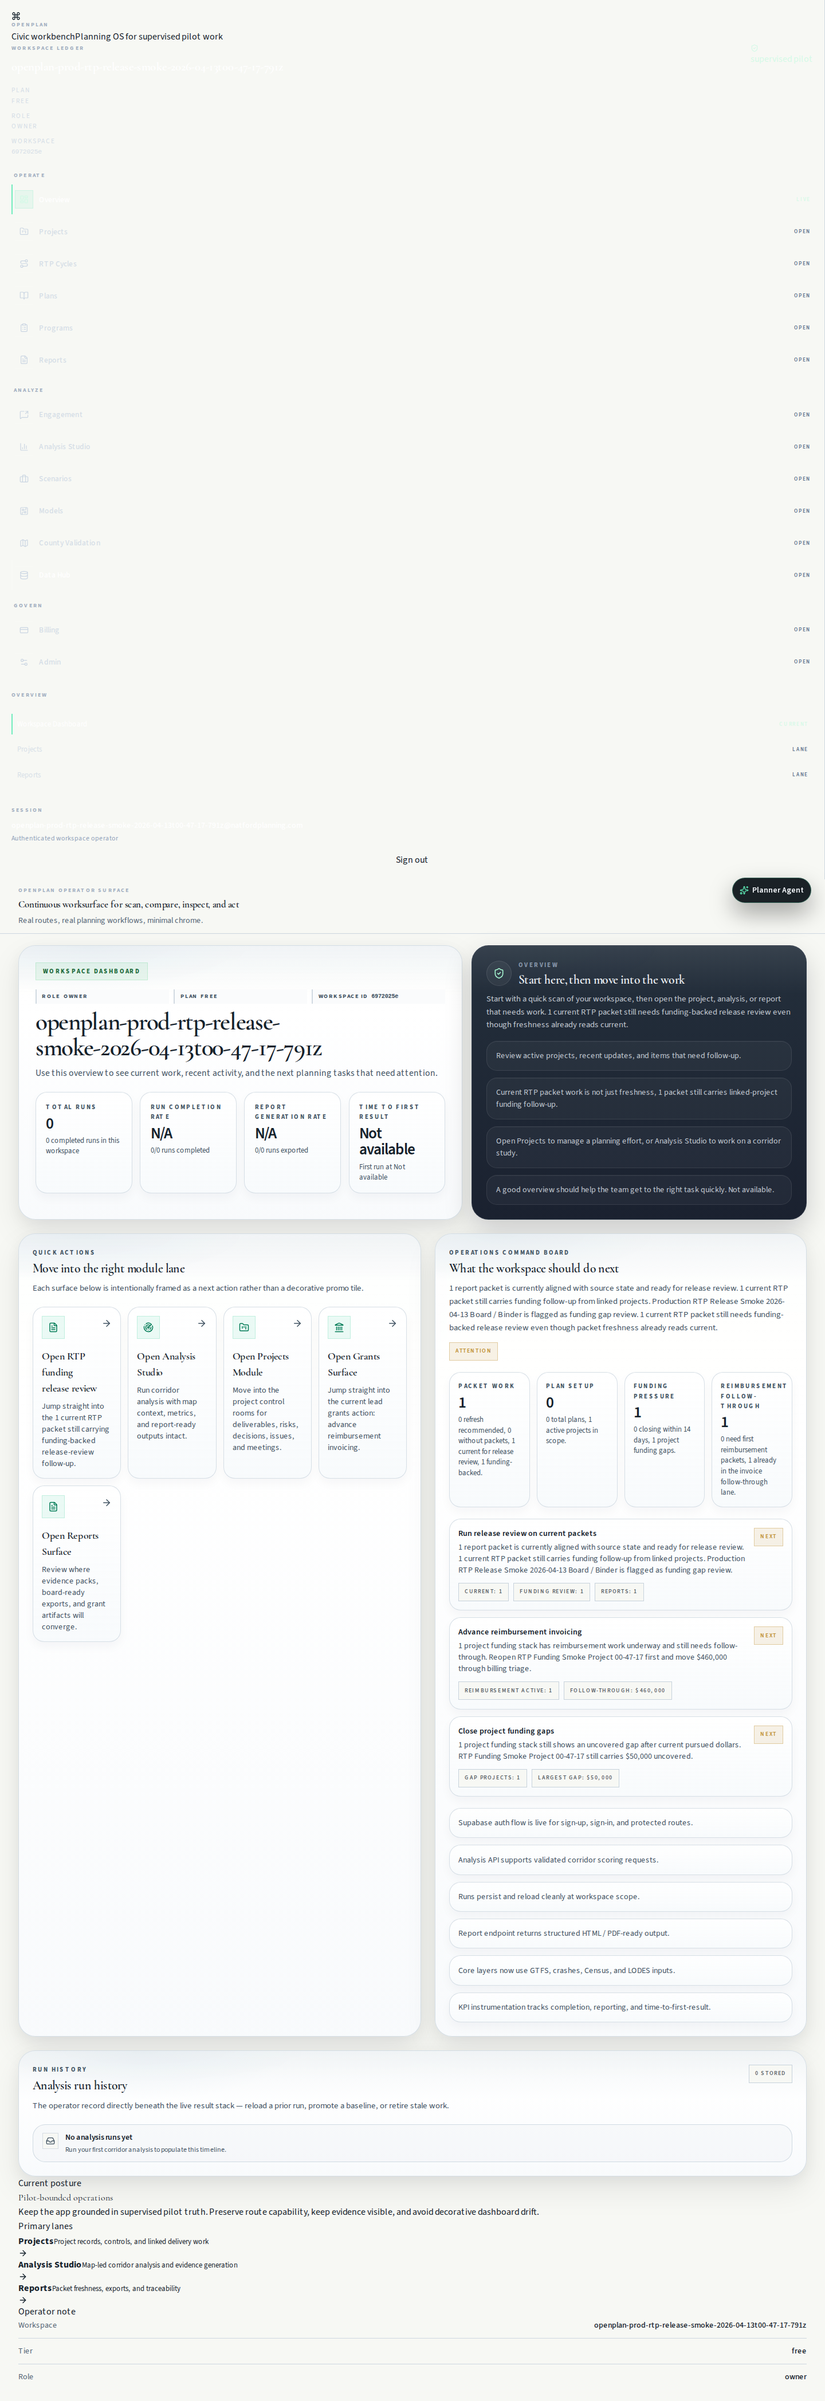
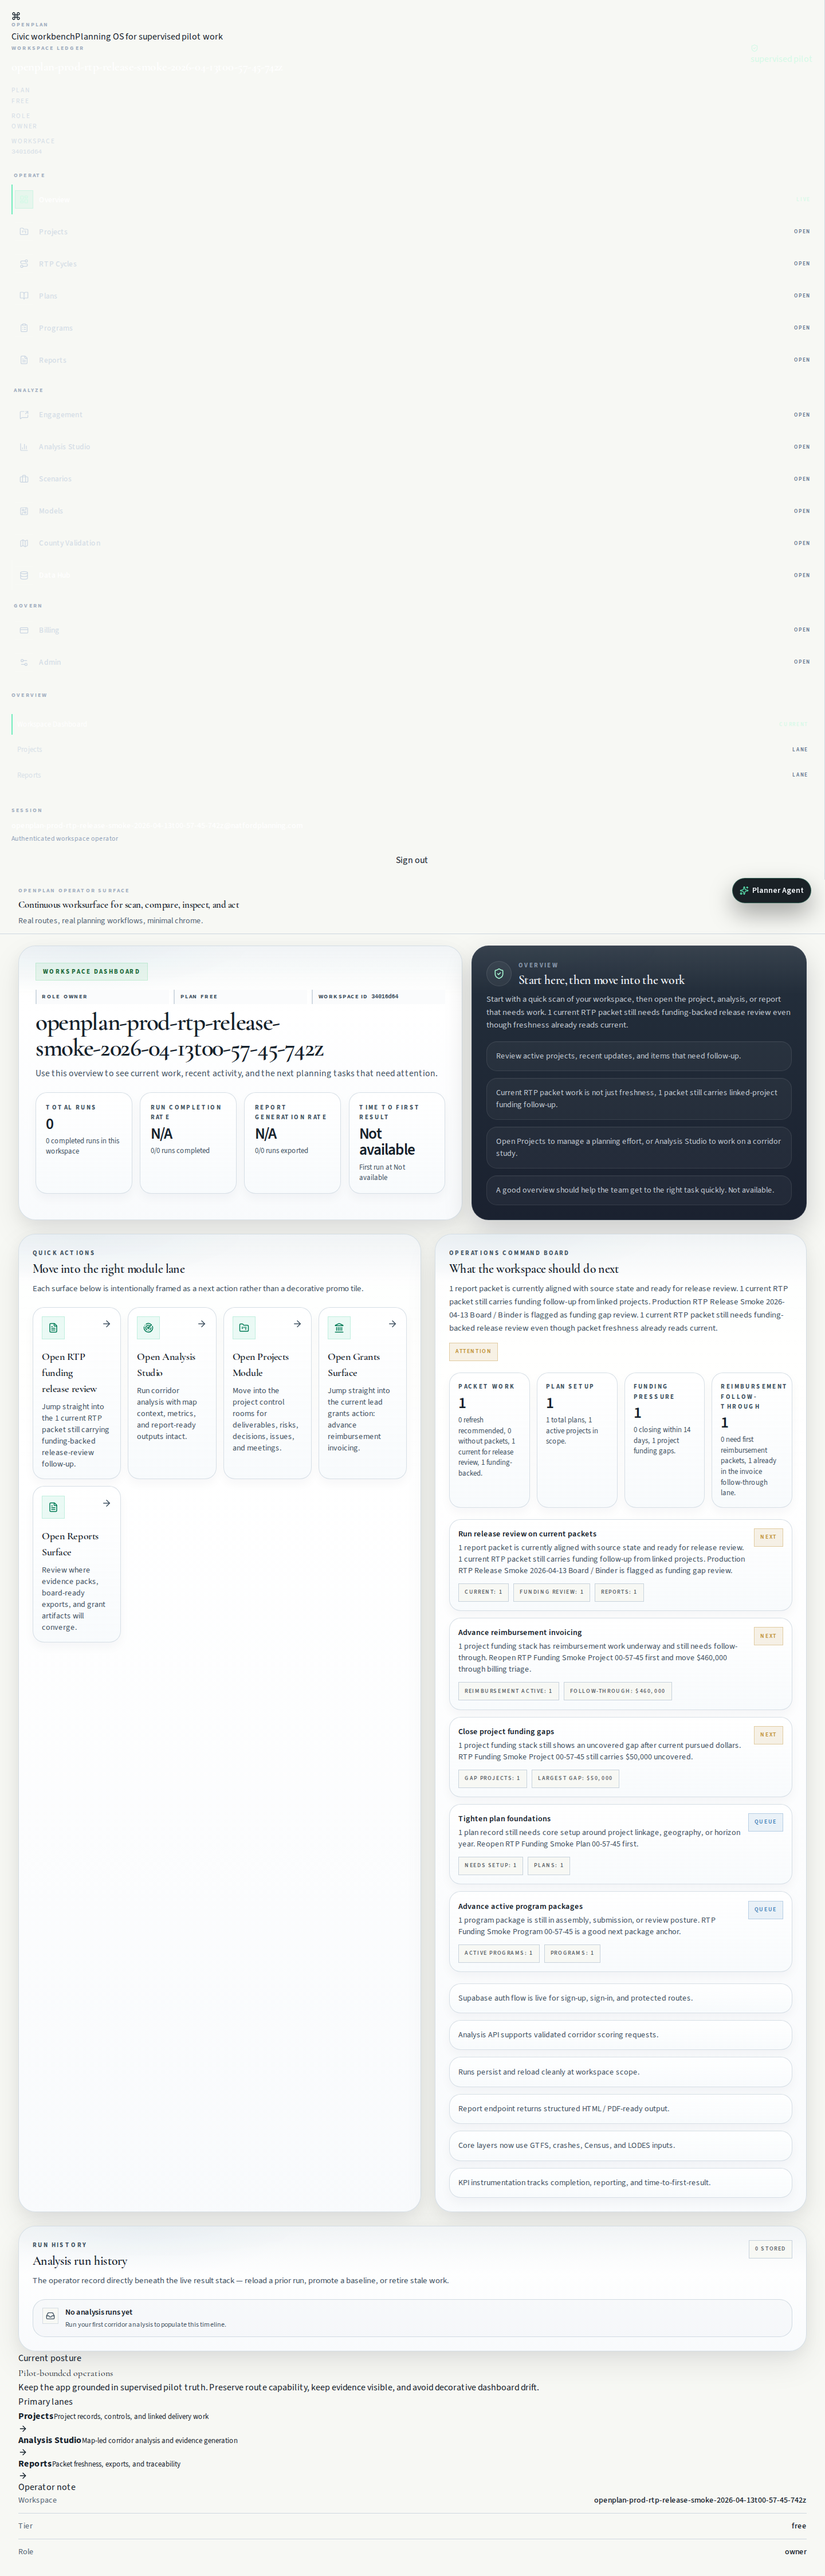
feat: surface RTP funding review on plan and program detail

diff --git a/qa-harness/openplan-prod-rtp-release-review-smoke.js b/qa-harness/openplan-prod-rtp-release-review-smoke.js
@@ -35,6 +35,8 @@ async function main() {
   const workspaceName = `OpenPlan Prod RTP Release Smoke ${stamp.slice(11, 19)}`;
   const cycleTitle = `Production RTP Release Smoke ${stamp.slice(0, 10)}`;
   const projectName = `RTP Funding Smoke Project ${stamp.slice(11, 19)}`;
+  const planTitle = `RTP Funding Smoke Plan ${stamp.slice(11, 19)}`;
+  const programTitle = `RTP Funding Smoke Program ${stamp.slice(11, 19)}`;
   const opportunityTitle = `RTP linked funding opportunity ${stamp.slice(11, 19)}`;
   const awardTitle = `RTP linked funding award ${stamp.slice(11, 19)}`;
   const invoiceNumber = `RTP-FUND-${stamp.slice(11, 19).replace(/-/g, '')}`;
@@ -270,6 +272,51 @@ async function main() {
     }
     notes.push('Generated the first RTP packet artifact on production through the existing report generation route.');
 
+    const planResult = await appFetch('/api/plans', {
+      projectId: ids.projectId,
+      title: planTitle,
+      planType: 'regional',
+      status: 'active',
+      geographyLabel: 'Nevada County, California',
+      horizonYear: 2045,
+      summary: 'Production smoke plan used to verify shared runtime cue propagation on plan detail.',
+      links: [
+        { linkType: 'project_record', linkedId: ids.projectId },
+        { linkType: 'report', linkedId: ids.reportId },
+      ],
+    });
+    if (planResult.status !== 201) {
+      throw new Error(`Smoke plan creation failed: ${planResult.status} ${JSON.stringify(planResult.data)}`);
+    }
+    ids.planId = planResult.data.planId ?? null;
+
+    const programResult = await appFetch('/api/programs', {
+      projectId: ids.projectId,
+      title: programTitle,
+      programType: 'rtip',
+      status: 'assembling',
+      cycleName: 'FY 2026-27 RTIP',
+      fundingClassification: 'mixed',
+      sponsorAgency: 'Nevada County Transportation Commission',
+      ownerLabel: 'Programming lead',
+      cadenceLabel: 'Biennial adoption',
+      fiscalYearStart: 2026,
+      fiscalYearEnd: 2027,
+      nominationDueAt: new Date(Date.now() + 10 * 24 * 60 * 60 * 1000).toISOString(),
+      adoptionTargetAt: new Date(Date.now() + 40 * 24 * 60 * 60 * 1000).toISOString(),
+      summary: 'Production smoke program used to verify shared runtime cue propagation on program detail.',
+      links: [
+        { linkType: 'project_record', linkedId: ids.projectId },
+        { linkType: 'plan', linkedId: ids.planId },
+        { linkType: 'report', linkedId: ids.reportId },
+      ],
+    });
+    if (programResult.status !== 201) {
+      throw new Error(`Smoke program creation failed: ${programResult.status} ${JSON.stringify(programResult.data)}`);
+    }
+    ids.programId = programResult.data.programId ?? null;
+    notes.push('Seeded linked plan and program records so detail-surface runtime cues can be proven on production.');
+
     await page.goto(`${productionBaseUrl}/dashboard`, { waitUntil: 'networkidle' });
     await page.getByRole('heading', { name: /Move into the right module lane/i }).waitFor({ timeout: 30000 });
     const dashboardReviewLink = page.getByRole('link', { name: /Open RTP funding release review/i }).first();
@@ -320,6 +367,28 @@ async function main() {
     }
     notes.push('Plans registry inherited the shared RTP funding-review runtime cue from the central workspace loader.');
     await screenshot('prod-rtp-release-review-plans');
+
+    await page.goto(`${productionBaseUrl}/plans/${ids.planId}`, { waitUntil: 'networkidle' });
+    await page.getByText(new RegExp(planTitle, 'i')).first().waitFor({ timeout: 30000 });
+    const planDetailRuntimeCueLink = page.getByRole('link', { name: /Open RTP funding review/i }).first();
+    await planDetailRuntimeCueLink.waitFor({ timeout: 30000 });
+    const planDetailRuntimeCueHref = await planDetailRuntimeCueLink.getAttribute('href');
+    if (planDetailRuntimeCueHref !== `/reports/${ids.reportId}#packet-release-review`) {
+      throw new Error(`Plan detail runtime cue did not target the expected RTP funding review. Received ${planDetailRuntimeCueHref}`);
+    }
+    notes.push('Plan detail surfaced the direct RTP funding-review runtime cue on the planning spine, not just the shared command board.');
+    await screenshot('prod-rtp-release-review-plan-detail');
+
+    await page.goto(`${productionBaseUrl}/programs/${ids.programId}`, { waitUntil: 'networkidle' });
+    await page.getByText(new RegExp(programTitle, 'i')).first().waitFor({ timeout: 30000 });
+    const programDetailRuntimeCueLink = page.getByRole('link', { name: /Open RTP funding review/i }).first();
+    await programDetailRuntimeCueLink.waitFor({ timeout: 30000 });
+    const programDetailRuntimeCueHref = await programDetailRuntimeCueLink.getAttribute('href');
+    if (programDetailRuntimeCueHref !== `/reports/${ids.reportId}#packet-release-review`) {
+      throw new Error(`Program detail runtime cue did not target the expected RTP funding review. Received ${programDetailRuntimeCueHref}`);
+    }
+    notes.push('Program detail surfaced the direct RTP funding-review runtime cue on the programming spine, not just the shared command board.');
+    await screenshot('prod-rtp-release-review-program-detail');
 
     await page.goto(`${productionBaseUrl}/data-hub`, { waitUntil: 'networkidle' });
     await page.getByText(/Data Hub now uses the same internal hierarchy as the rest of OpenPlan/i).first().waitFor({ timeout: 30000 });
@@ -420,6 +489,8 @@ async function main() {
       `- Workspace id: ${ids.workspaceId ?? 'unknown'}`,
       `- RTP cycle id: ${ids.rtpCycleId ?? 'unknown'}`,
       `- Project id: ${ids.projectId ?? 'unknown'}`,
+      `- Plan id: ${ids.planId ?? 'unknown'}`,
+      `- Program id: ${ids.programId ?? 'unknown'}`,
       `- Opportunity id: ${ids.opportunityId ?? 'unknown'}`,
       `- Award id: ${ids.awardId ?? 'unknown'}`,
       `- Invoice id: ${ids.invoiceId ?? 'unknown'}`,

diff --git a/openplan/src/app/(app)/programs/[programId]/page.tsx b/openplan/src/app/(app)/programs/[programId]/page.tsx
@@ -11,6 +11,7 @@ import {
   ShieldCheck,
 } from "lucide-react";
 import { WorkspaceCommandBoard } from "@/components/operations/workspace-command-board";
+import { WorkspaceRuntimeCue } from "@/components/operations/workspace-runtime-cue";
 import { FundingOpportunityCreator } from "@/components/programs/funding-opportunity-creator";
 import { ProgramDetailControls } from "@/components/programs/program-detail-controls";
 import { ReportPacketCommandQueue } from "@/components/reports/report-packet-command-queue";
@@ -678,6 +679,7 @@ export default async function ProgramDetailPage({
               relatedProjects: projectLinkIds,
             }}
           />
+          <WorkspaceRuntimeCue summary={operationsSummary} />
           <WorkspaceCommandBoard
             summary={operationsSummary}
             label="Workspace command board"

diff --git a/openplan/src/app/(app)/plans/[planId]/page.tsx b/openplan/src/app/(app)/plans/[planId]/page.tsx
@@ -12,6 +12,7 @@ import {
   ShieldCheck,
 } from "lucide-react";
 import { WorkspaceCommandBoard } from "@/components/operations/workspace-command-board";
+import { WorkspaceRuntimeCue } from "@/components/operations/workspace-runtime-cue";
 import { PlanDetailControls } from "@/components/plans/plan-detail-controls";
 import { StatusBadge } from "@/components/ui/status-badge";
 import { EmptyState } from "@/components/ui/state-block";
@@ -737,6 +738,7 @@ export default async function PlanDetailPage({
             plan={plan}
             projects={(projectsResult.data ?? []).map((project) => ({ id: project.id, name: project.name }))}
           />
+          <WorkspaceRuntimeCue summary={operationsSummary} />
           <WorkspaceCommandBoard
             summary={operationsSummary}
             label="Workspace command board"

diff --git a/docs/ops/2026-04-13-openplan-production-rtp-release-review-smoke.md b/docs/ops/2026-04-13-openplan-production-rtp-release-review-smoke.md
@@ -1,31 +1,36 @@
 # OpenPlan Production RTP Release-Review Smoke — 2026-04-13
 
 - Base URL: https://openplan-natford.vercel.app
-- QA user email: openplan-prod-rtp-release-smoke-2026-04-13T00-47-17-791Z@natfordplanning.com
+- QA user email: openplan-prod-rtp-release-smoke-2026-04-13T00-57-45-742Z@natfordplanning.com
 - QA user id: unknown
-- Workspace id: 6972025e-b56e-4fd8-84db-7c5037e95d61
-- RTP cycle id: d5cc173d-05f9-4a43-800a-477e5b08f8d3
-- Project id: 1a1301fb-d94d-4f94-927f-a838858d5fbc
-- Opportunity id: aead3a5c-3e5d-49ff-9338-96359f15f051
-- Award id: e649fe46-e671-41c2-ae11-5568718b9477
-- Invoice id: 493548e3-f432-4bc6-8e7b-8f139596f94e
-- Report id: 95846d55-ca33-45a9-a563-7e3b0d3b1faa
+- Workspace id: 34016d64-75fd-427b-82b3-c173e04fad7a
+- RTP cycle id: 89b8e190-eb64-4be4-bb88-80aee6b802a7
+- Project id: ea0ddc45-5944-49ea-9d88-e5794a347121
+- Plan id: 95a6ff4b-d7b3-475c-bc22-e8206920070f
+- Program id: eaff3acc-afd5-4bf1-afac-6647c0a9e254
+- Opportunity id: aab6d8bd-1317-40ee-8087-1bc8b8e5caf1
+- Award id: ea5c3233-db51-4c41-9dab-2f29ef86f488
+- Invoice id: 4f5b6cd7-dbb3-4ba7-abc9-e2262de8a957
+- Report id: 0263bce1-13c4-4720-ac31-ff45ab822477
 
 ## Pass/Fail Notes
-- PASS: Created QA auth user openplan-prod-rtp-release-smoke-2026-04-13T00-47-17-791Z@natfordplanning.com.
+- PASS: Created QA auth user openplan-prod-rtp-release-smoke-2026-04-13T00-57-45-742Z@natfordplanning.com.
 - PASS: Signed into production successfully.
-- PASS: Bootstrapped workspace OpenPlan Prod RTP Release Smoke 00-47-17.
-- PASS: Current workspace resolved to 6972025e-b56e-4fd8-84db-7c5037e95d61 instead of the freshly bootstrapped workspace 31fdcb2c-0db1-4671-8156-f05acb6cfc4c; RTP smoke data was aligned to the active workspace selection.
+- PASS: Bootstrapped workspace OpenPlan Prod RTP Release Smoke 00-57-45.
+- PASS: Current workspace resolved to 34016d64-75fd-427b-82b3-c173e04fad7a instead of the freshly bootstrapped workspace 9fb20994-83aa-486c-bec8-af136dd43a11; RTP smoke data was aligned to the active workspace selection.
 - PASS: Created production RTP cycle Production RTP Release Smoke 2026-04-13.
-- PASS: Seeded linked RTP project RTP Funding Smoke Project 00-47-17 in the active workspace.
+- PASS: Seeded linked RTP project RTP Funding Smoke Project 00-57-45 in the active workspace.
 - PASS: Linked the smoke project into the RTP cycle portfolio.
 - PASS: Seeded funding profile, opportunity, award, and reimbursement packet for the linked RTP project.
 - PASS: Created RTP board-packet record from the production API.
 - PASS: Generated the first RTP packet artifact on production through the existing report generation route.
+- PASS: Seeded linked plan and program records so detail-surface runtime cues can be proven on production.
 - PASS: Dashboard quick actions and shared command board copy both surfaced the RTP funding-backed release-review lane.
 - PASS: Analysis Studio surfaced the shared RTP funding-review runtime cue and inherited the same command-board pressure while keeping the smoke project as the visible project context.
 - PASS: Project detail surfaced the shared RTP funding-review runtime cue directly on the canonical project spine.
 - PASS: Plans registry inherited the shared RTP funding-review runtime cue from the central workspace loader.
+- PASS: Plan detail surfaced the direct RTP funding-review runtime cue on the planning spine, not just the shared command board.
+- PASS: Program detail surfaced the direct RTP funding-review runtime cue on the programming spine, not just the shared command board.
 - PASS: Data Hub inherited the shared RTP funding-review runtime cue from the central workspace loader.
 - PASS: Reports surface showed RTP funding-review queue pressure and the shared runtime cue pointed back to the RTP funding release-review packet before opening detail.
 - PASS: Production RTP registry rendered the release-review lane CTA, the row-level current-packet action, and funding-backed release-review cues before opening the packet detail.
@@ -37,6 +42,8 @@
 - 2026-04-13-prod-rtp-release-review-analysis-workspace.png
 - 2026-04-13-prod-rtp-release-review-project-detail.png
 - 2026-04-13-prod-rtp-release-review-plans.png
+- 2026-04-13-prod-rtp-release-review-plan-detail.png
+- 2026-04-13-prod-rtp-release-review-program-detail.png
 - 2026-04-13-prod-rtp-release-review-data-hub.png
 - 2026-04-13-prod-rtp-release-review-02-reports-runtime-cue.png
 - 2026-04-13-prod-rtp-release-review-01-registry.png

diff --git a/docs/ops/2026-04-13-openplan-production-qa-cleanup.md b/docs/ops/2026-04-13-openplan-production-qa-cleanup.md
@@ -1,6 +1,6 @@
 # OpenPlan Production QA Cleanup — 2026-04-13
 
-- Started: 2026-04-13T00:48:41.105Z
+- Started: 2026-04-13T00:59:09.029Z
 - Mode: apply
 - Env path: /home/narford/.openclaw/workspace/openplan/openplan/.env.local
 - Created-after filter: 2026-04-12
